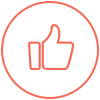
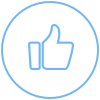
-

Changed region(s): [[0.0, 0.0, 0.99, 0.99], [0.27, 0.24, 0.75, 0.72]]

diff --git a/src/components/classCardSystemBackstage/css/notifyDetail.less b/src/components/classCardSystemBackstage/css/notifyDetail.less
@@ -1,14 +1,36 @@
 #notifyDetail{
   .card{
-    width: 300px;
-    margin:30px auto;
-    padding-left:10px;
+    margin:50px 15px 0;
+    padding:10px 15px;
     position:relative;
+    border-radius: 0;
+    word-wrap: break-word;
+    min-height: 120px;
+    &::before{
+      border: 0;
+    }
+    .title{
+      font-size: 16px;
+      color: #666;
+      line-height: 24px;
+      margin: 8px 0;
+    }
+    .text{
+      line-height: 22px;
+      font-size: 14px;
+      color: #333;
+    }
+
   }
   .createDate{
     position:absolute;
-    top:-35px;
+    top:-50px;
+    left: 0;
     text-align:center;
     width:100%;
+    color: #999;
+    font-size: 14px;
+    line-height: 30px;
+
   }
 }

diff --git a/src/components/classCardSystemBackstage/css/notifyDetail.css b/src/components/classCardSystemBackstage/css/notifyDetail.css
@@ -1,12 +1,32 @@
 #notifyDetail .card {
-  width: 300px;
-  margin: 30px auto;
-  padding-left: 10px;
+  margin: 50px 15px 0;
+  padding: 10px 15px;
   position: relative;
+  border-radius: 0;
+  word-wrap: break-word;
+  min-height: 120px;
+}
+#notifyDetail .card::before {
+  border: 0;
+}
+#notifyDetail .card .title {
+  font-size: 16px;
+  color: #666;
+  line-height: 24px;
+  margin: 8px 0;
+}
+#notifyDetail .card .text {
+  line-height: 22px;
+  font-size: 14px;
+  color: #333;
 }
 #notifyDetail .createDate {
   position: absolute;
-  top: -35px;
+  top: -50px;
+  left: 0;
   text-align: center;
   width: 100%;
+  color: #999;
+  font-size: 14px;
+  line-height: 30px;
 }

diff --git a/src/components/classCardSystemBackstage/js/notifyDetail.jsx b/src/components/classCardSystemBackstage/js/notifyDetail.jsx
@@ -46,9 +46,10 @@ export default class notifyDetail extends React.Component {
         return (
             <div id="notifyDetail" style={{height: document.body.clientHeight}}>
                 <Card title={"卡片标题"} className="card">
-                    <p>{this.state.data.noticeTitle}</p>
-                    <div>{this.state.data.noticeContent}</div>
                     <p className="createDate">{this.state.data.createTime}</p>
+                    <p className="title">{this.state.data.noticeTitle}</p>
+                    <div className="text">{this.state.data.noticeContent}</div>
+
                 </Card>
             </div>
         );

diff --git a/src/components/commentsModule/css/comments.css b/src/components/commentsModule/css/comments.css
@@ -7,6 +7,11 @@
 }
 #comments .am-list-body {
   background: none;
+  border-top: 0;
+  border-bottom: 0;
+}
+#comments .am-list-line {
+  border-bottom: 0;
 }
 #comments .list-view-section-body {
   background-color: #fff;
@@ -17,7 +22,7 @@
   margin: 10px 15px;
 }
 #comments .am-tabs-default-bar-tab-active {
-  color: #f35454;
+  color: #73B6F5;
 }
 #comments .am-tabs-default-bar-tab::after,
 #comments .am-list-line::after,
@@ -25,7 +30,7 @@
   background: none!important;
 }
 #comments .am-tabs-default-bar-underline {
-  border-color: #f35454;
+  border-color: #73B6F5;
 }
 #comments .am-list-item .am-input-control input {
   font-size: 15px;

diff --git a/src/components/commentsModule/css/comments.less b/src/components/commentsModule/css/comments.less
@@ -12,6 +12,11 @@
   }
   .am-list-body{
     background: none;
+    border-top: 0;
+    border-bottom: 0;
+  }
+  .am-list-line{
+    border-bottom: 0;
   }
   .list-view-section-body{
     background-color: #fff;
@@ -22,13 +27,13 @@
     margin: 10px 15px;
   }
   .am-tabs-default-bar-tab-active{
-    color: #f35454;
+    color: #73B6F5;
   }
   .am-tabs-default-bar-tab::after,.am-list-line::after,.am-list-body::after{
     background: none!important;
   }
   .am-tabs-default-bar-underline{
-    border-color: #f35454;
+    border-color: #73B6F5;
   }
 
   .am-list-item .am-input-control input{
